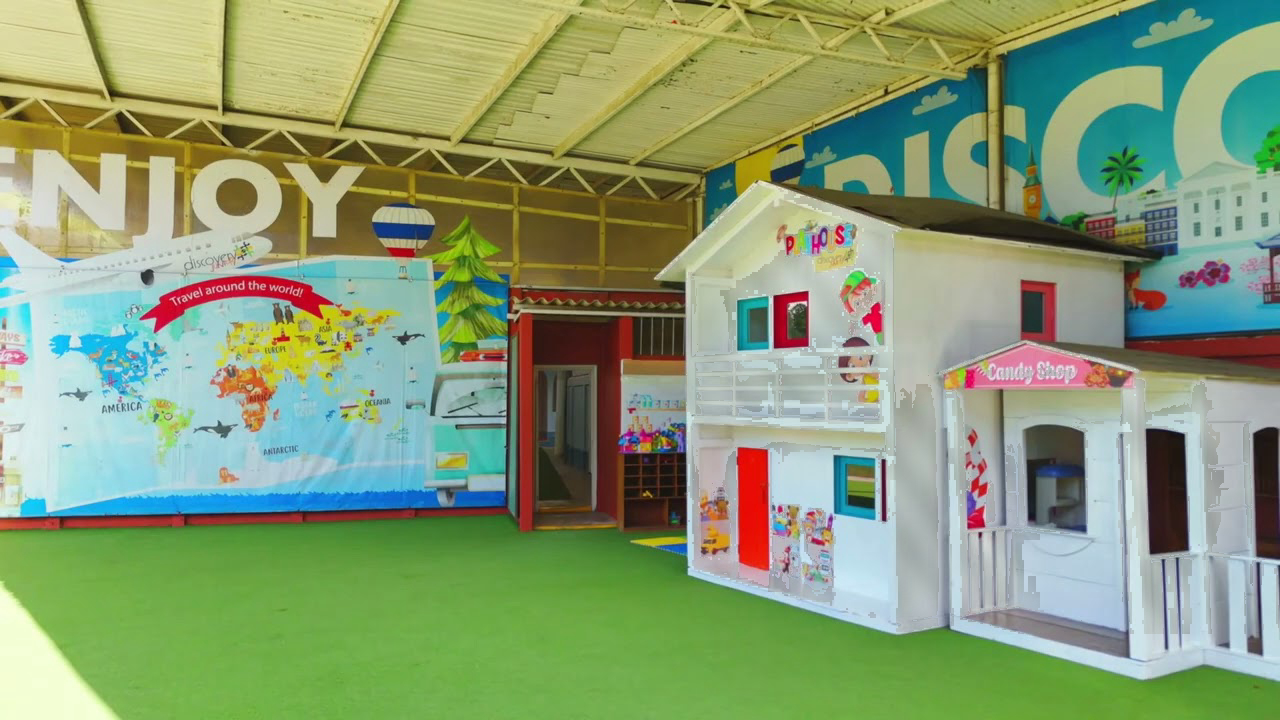
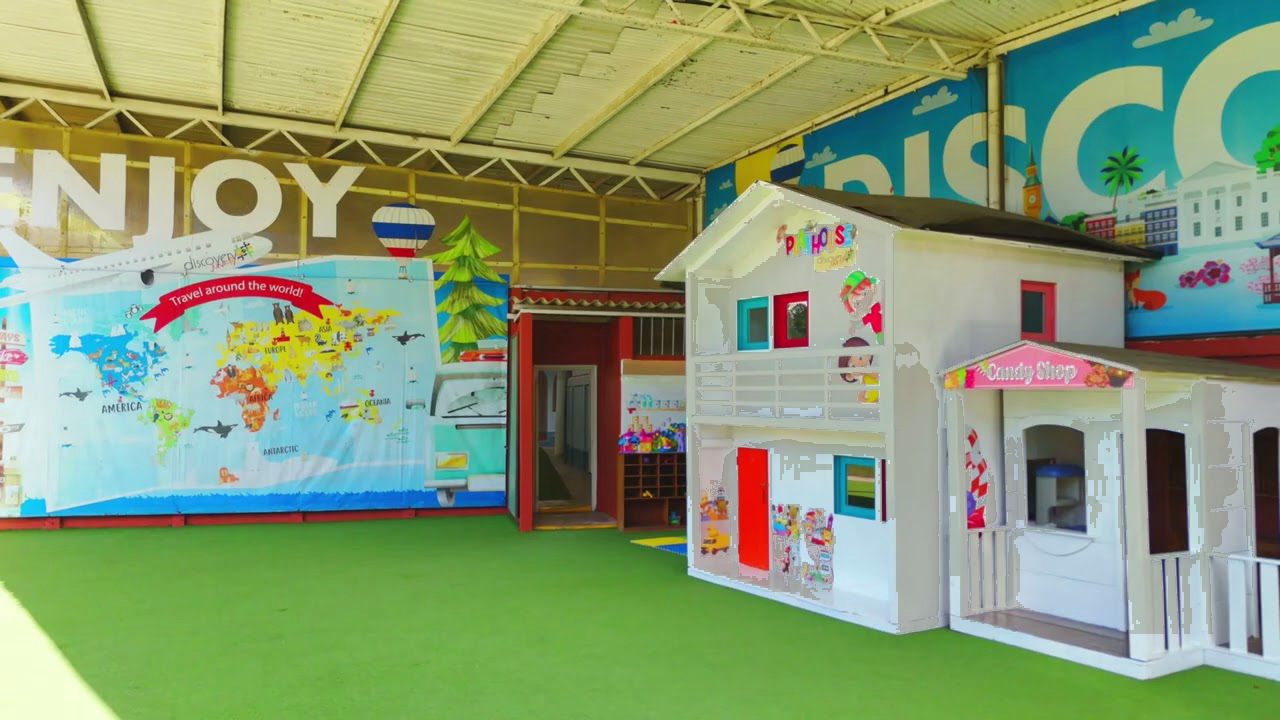
fix(slider): eliminate image squishing with clip-path and ensure realistic authentic local imagery

diff --git a/src/components/BeforeAfterSlider.tsx b/src/components/BeforeAfterSlider.tsx
@@ -97,22 +97,17 @@ export const BeforeAfterSlider: React.FC<BeforeAfterSliderProps> = ({
           loading="lazy"
         />
 
-        {/* Before image (Clipped to slider position) */}
+        {/* Before image (Clipped cleanly with clip-path, perfectly 1:1 aligned without stretching) */}
         <div
-          className="absolute inset-0 overflow-hidden pointer-events-none"
-          style={{ width: `${sliderPosition}%` }}
+          className="absolute inset-0 pointer-events-none"
+          style={{ clipPath: `inset(0 ${100 - sliderPosition}% 0 0)` }}
         >
           <img
             src={beforeImage}
             alt={`Estado previo antes - ${title}`}
-            className="absolute inset-0 w-full h-full object-cover max-w-none pointer-events-none"
-            style={{
-              width: containerRef.current ? `${containerRef.current.clientWidth}px` : '100%',
-              minWidth: '100%',
-            }}
+            className="absolute inset-0 w-full h-full object-cover pointer-events-none"
             loading="lazy"
           />
-          <div className="absolute inset-0 bg-black/10" />
         </div>
 
         {/* Divider line and draggable pill */}

diff --git a/src/data/content.ts b/src/data/content.ts
@@ -717,16 +717,16 @@ export const PROJECTS_GALLERY: ProjectItem[] = [
   },
   {
     id: 'proj-3',
-    title: 'Revitalización y Pintura de Áreas de Gimnasio',
+    title: 'Futeca Gym: Pintura de Muros y Áreas de Entrenamiento',
     category: 'deportivo',
     categoryLabel: 'Deportivo',
     filterType: 'deportivo',
     solutionApplied:
-      'Pintura acrílica de alta lavabilidad, demarcación de zonas de peso libre y recubrimiento antideslizante',
+      'Pintura arquitectónica de alta lavabilidad en muros, señalética y acabados de grado comercial',
     result:
-      'Espacios energizantes de acondicionamiento físico con alta resistencia al roce y fácil mantenimiento.',
-    image: '/projects/gimnasio-area-despues.jpg',
-    location: 'Fraijanes / Ciudad de Guatemala',
+      'Instalaciones deportivas de alto estándar con alta resistencia al roce y estética corporativa.',
+    image: '/projects/futeca-gym-fuerza.jpg',
+    location: 'C.C. Pradera Concepción, Carretera a El Salvador',
     hasBeforeAfter: false,
     isReferenceVisualization: false,
   },
